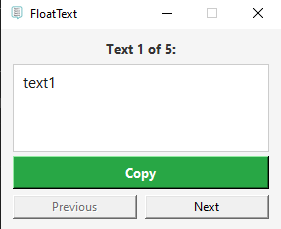
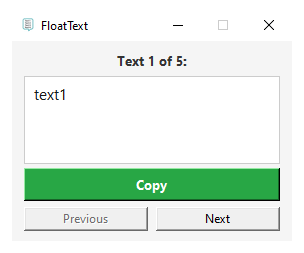
Fix: crop black bar from Windows screenshot, add clean border

diff --git a/index.html b/index.html
@@ -190,9 +190,11 @@
         }
         .device-windows .device-frame {
             max-width: 280px;
-            border: none;
-            background: transparent;
-            box-shadow: 0 8px 30px rgba(0,0,0,0.1);
+            border: 1.5px solid #d0d7de;
+            border-radius: 10px;
+            background: #fff;
+            box-shadow: 0 8px 32px rgba(0,0,0,0.13), 0 1.5px 4px rgba(0,0,0,0.07);
+            overflow: hidden;
         }
         .device-android .device-frame {
             max-width: 220px;
